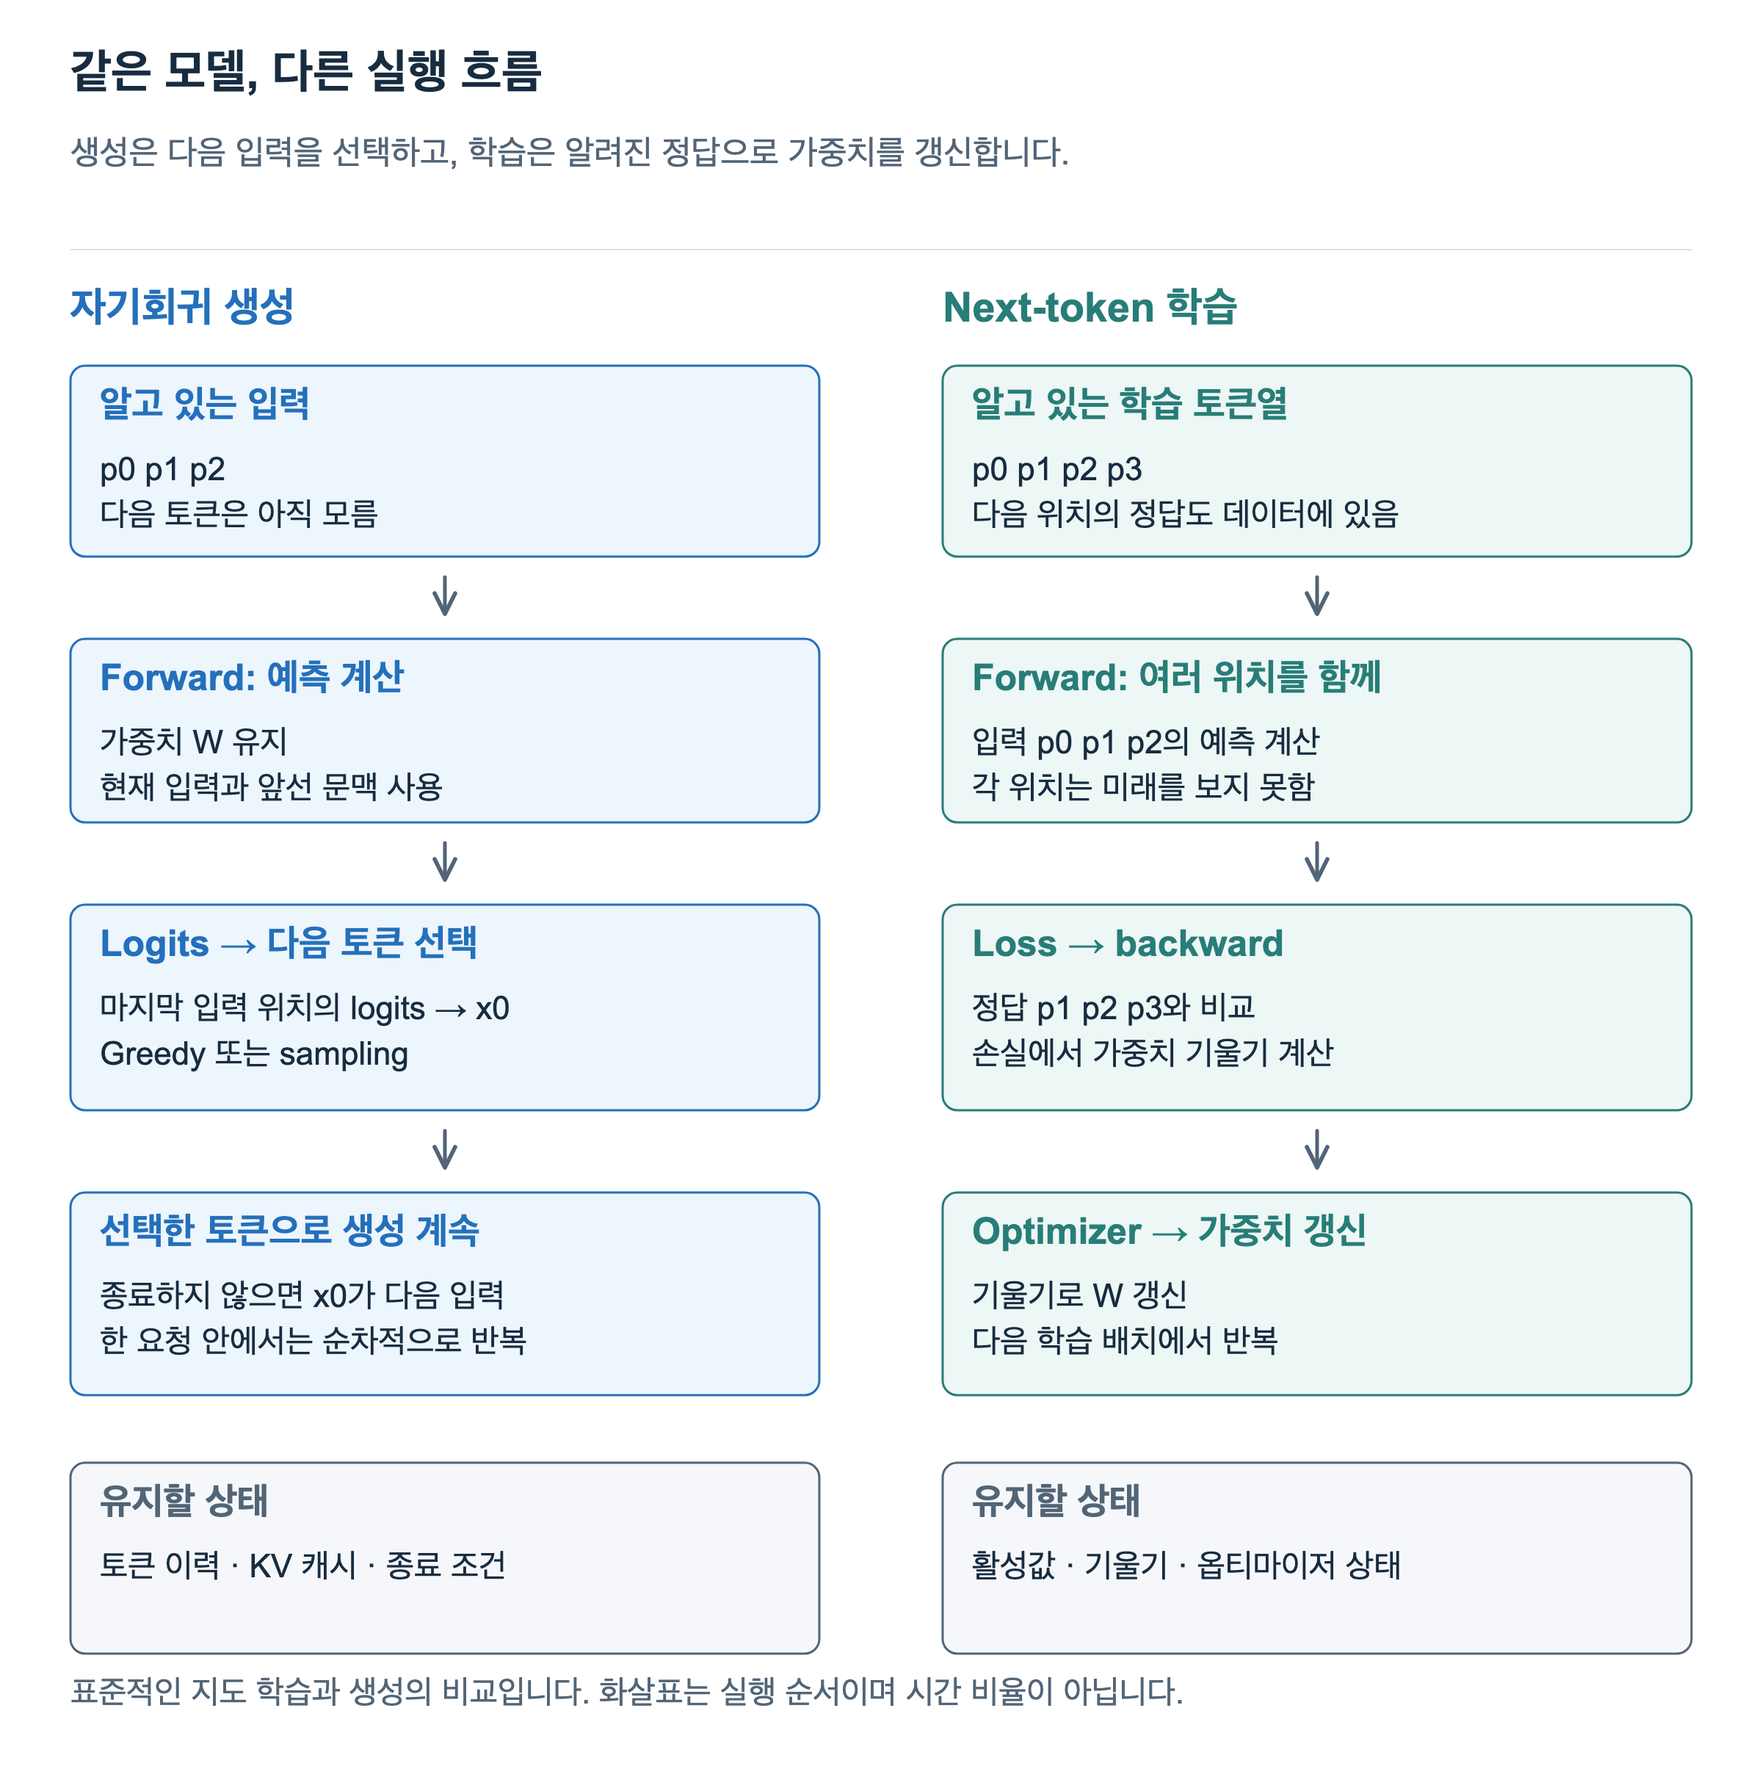
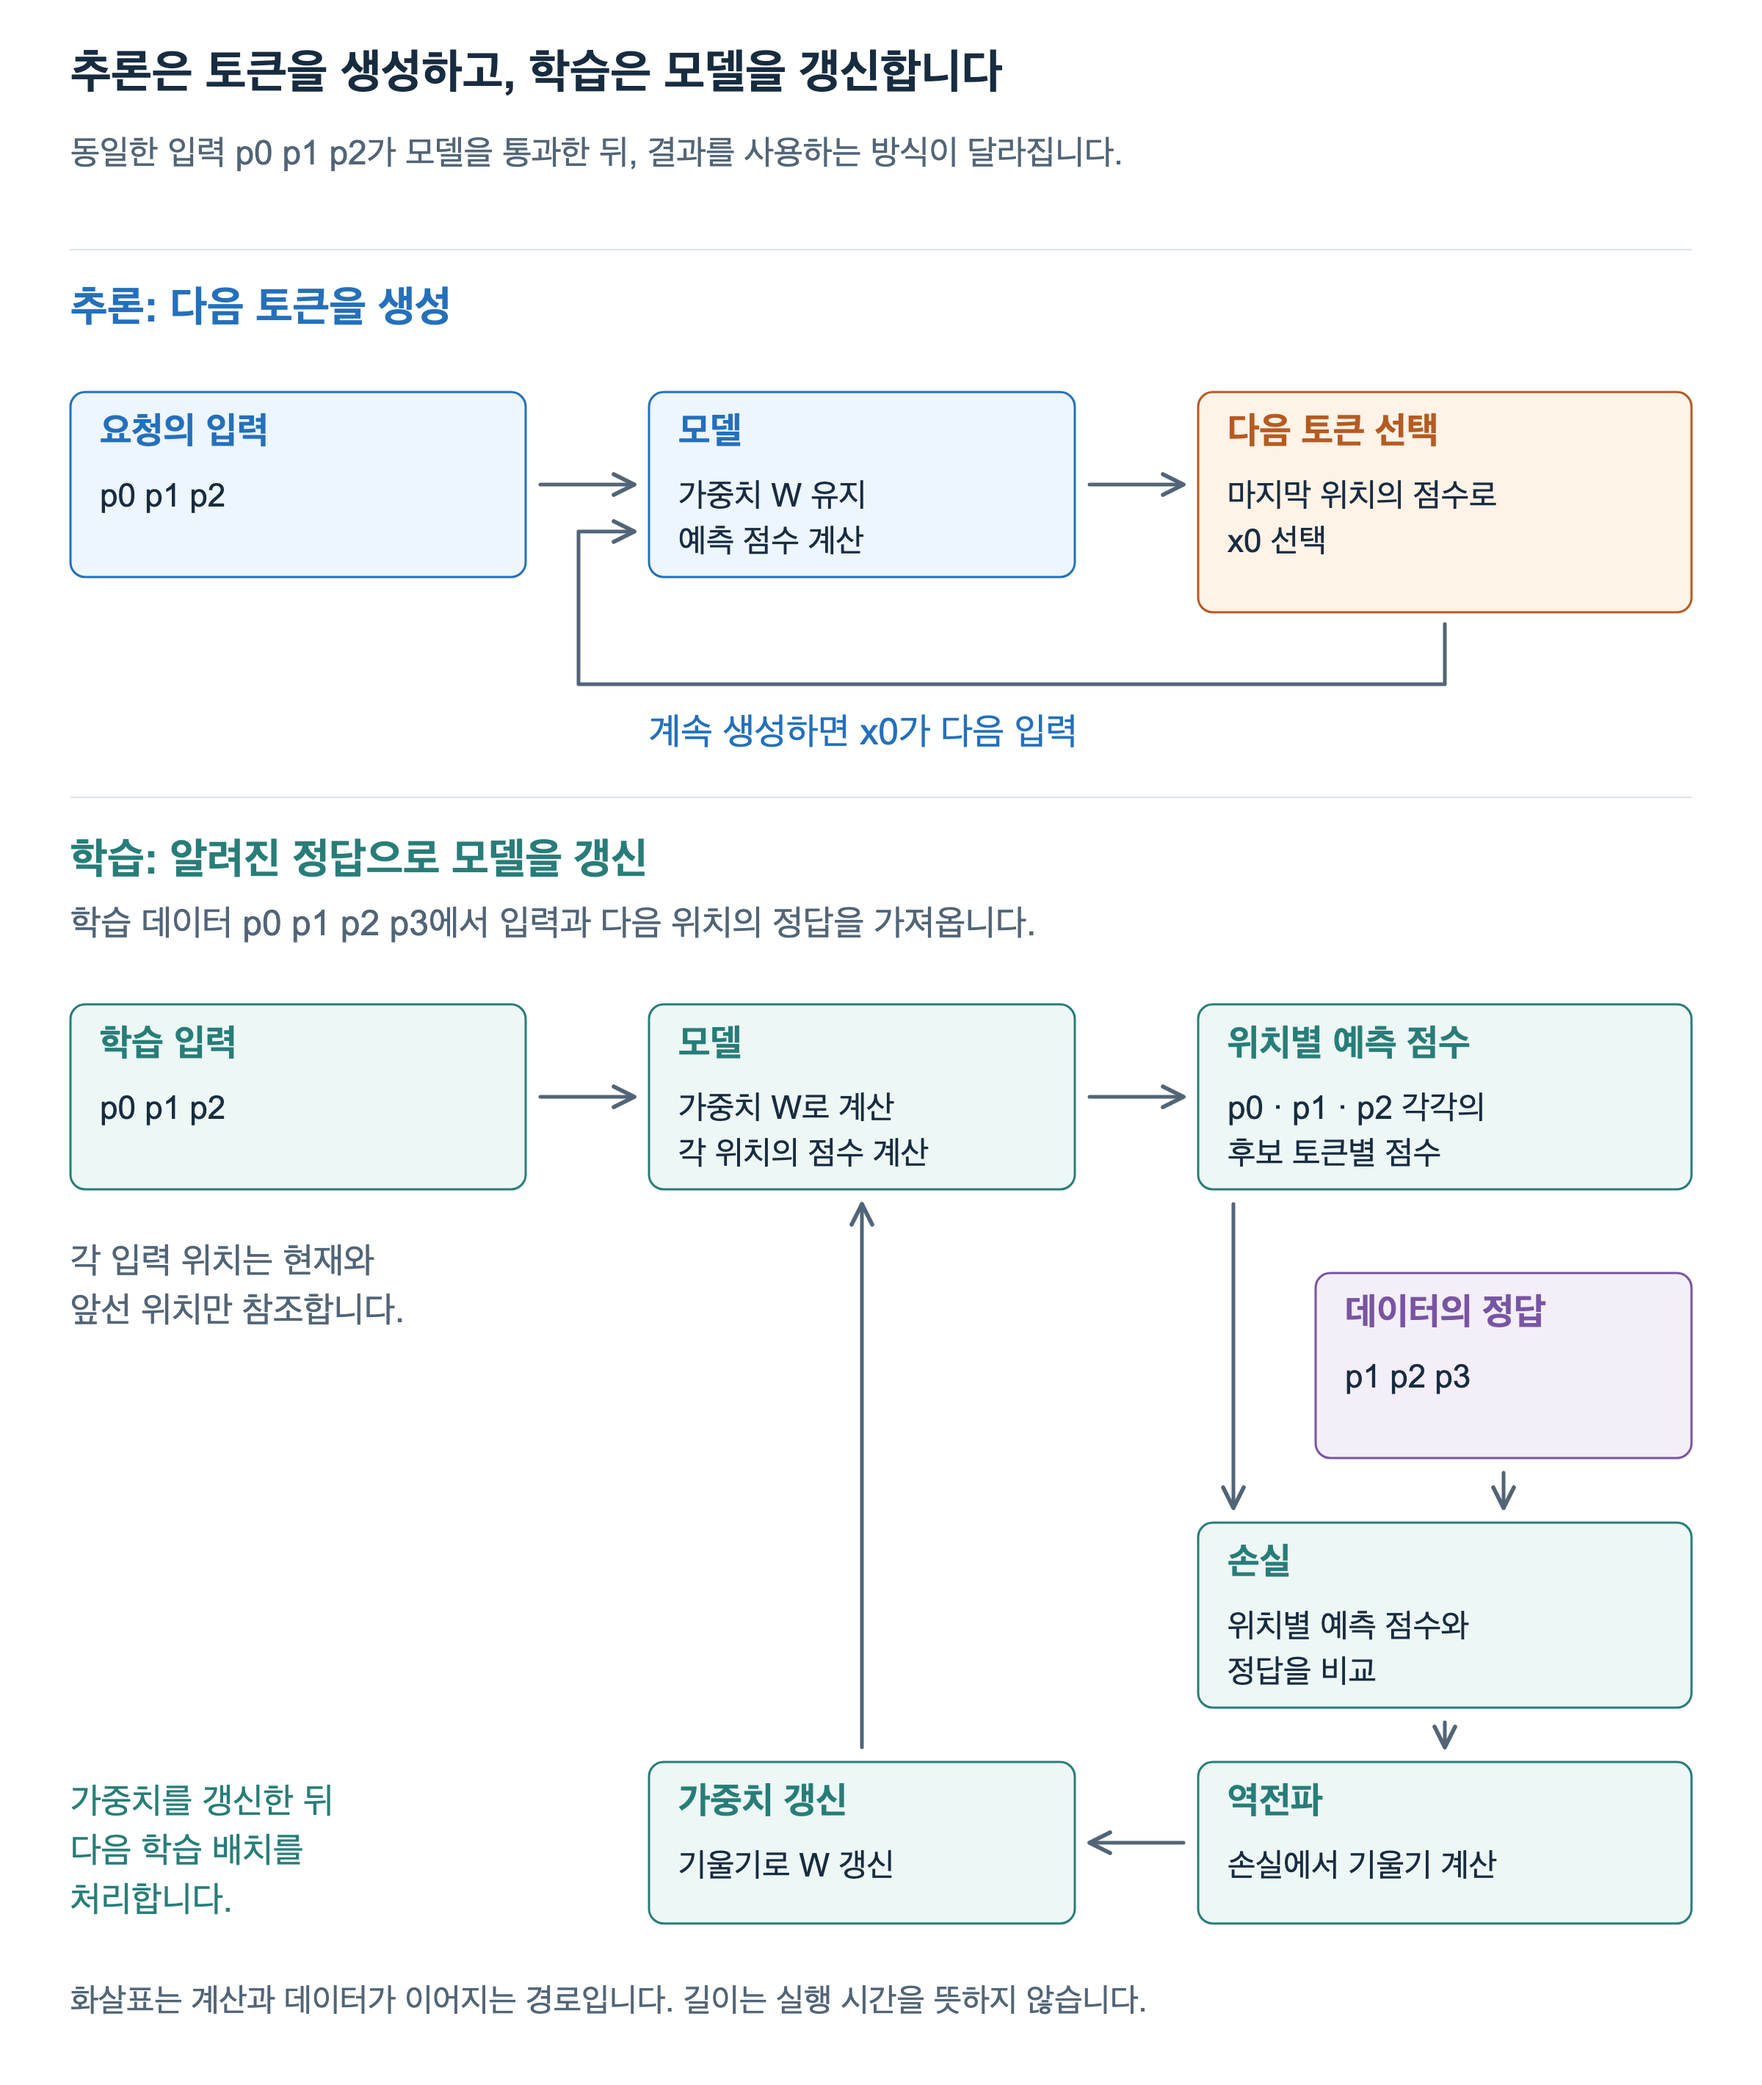
Clarify inference and training workload comparison

diff --git a/scripts/generate-inference-core-figures.py b/scripts/generate-inference-core-figures.py
@@ -69,22 +69,33 @@ def save(article,slug,title,subtitle,body,height,alt,caption):
 
 for LANG in ['ko','en']:
     a='inference-and-training'
-    b=text(48,219,('자기회귀 생성','Autoregressive generation'),28,BLUE,True)+text(642,219,('Next-token 학습','Next-token training'),28,TEAL,True)
-    b+=box(48,249,510,130,('알고 있는 입력','Known input'),'p0  p1  p2\n'+tr(('다음 토큰은 아직 모름','The next token is not yet known')))
-    b+=box(642,249,510,130,('알고 있는 학습 토큰열','Known training sequence'),'p0  p1  p2  p3\n'+tr(('다음 위치의 정답도 데이터에 있음','Next-position targets are in the data')),TEALF,TEAL)
-    for x in [303,897]:b+=arrow(x,393,x,418)
-    b+=box(48,435,510,125,('Forward: 예측 계산','Forward: compute predictions'),('가중치 W 유지\n현재 입력과 앞선 문맥 사용','Keep weights W fixed\nCurrent input with prior context'))
-    b+=box(642,435,510,125,('Forward: 여러 위치를 함께','Forward: known positions'),('입력 p0 p1 p2의 예측 계산\n각 위치는 미래를 보지 못함','Predict from input positions p0 p1 p2\nEach position cannot see the future'),TEALF,TEAL)
-    for x in [303,897]:b+=arrow(x,574,x,599)
-    b+=box(48,616,510,140,('Logits → 다음 토큰 선택','Logits → select the next token'),('마지막 입력 위치의 logits → x0\nGreedy 또는 sampling','Last-position logits → x0\nGreedy selection or sampling'))
-    b+=box(642,616,510,140,('Loss → backward','Loss → backward'),('정답 p1 p2 p3와 비교\n손실에서 가중치 기울기 계산','Compare with targets p1 p2 p3\nWeight gradients from the loss'),TEALF,TEAL)
-    for x in [303,897]:b+=arrow(x,770,x,795)
-    b+=box(48,812,510,138,('선택한 토큰으로 생성 계속','Continue with the selected token'),('종료하지 않으면 x0가 다음 입력\n한 요청 안에서는 순차적으로 반복','If continuing, use x0 as next input\nRepeat in order within a request'))
-    b+=box(642,812,510,138,('Optimizer → 가중치 갱신','Optimizer → update weights'),('기울기로 W 갱신\n다음 학습 배치에서 반복','Update W using the gradients\nRepeat on the next training batch'),TEALF,TEAL)
-    b+=box(48,996,510,130,('유지할 상태','State to retain'),('토큰 이력 · KV 캐시 · 종료 조건','Token history · KV cache · stop conditions'),'#F5F7FA',MUTED)
-    b+=box(642,996,510,130,('유지할 상태','State to retain'),('활성값 · 기울기 · 옵티마이저 상태','Activations · gradients\nOptimizer state'),'#F5F7FA',MUTED)
-    b+=text(48,1160,('표준적인 지도 학습과 생성의 비교입니다. 화살표는 실행 순서이며 시간 비율이 아닙니다.','Standard supervised training and generation; arrows show order, not elapsed time.'),22,MUTED,width=1104)
-    save(a,'01-execution',('같은 모델, 다른 실행 흐름','Same model, different execution flows'),('생성은 다음 입력을 선택하고, 학습은 알려진 정답으로 가중치를 갱신합니다.','Generation selects its next input; training updates weights against known targets.'),b,1210,('생성은 고정된 가중치로 forward와 토큰 선택을 반복하고, 학습은 알려진 여러 위치의 예측과 손실, 역전파, 가중치 갱신을 수행합니다.','Generation repeats forward passes and token selection with fixed weights. Training predicts known positions, computes loss and gradients, and updates weights.'),('같은 Transformer도 입력이 주어지는 방식, 반복할 계산, 유지할 상태가 다르면 다른 워크로드가 됩니다.','The same Transformer forms different workloads when its inputs, repeated computation, and retained state differ.'))
+    b=text(48,219,('추론: 다음 토큰을 생성','Inference: generate the next token'),29,BLUE,True)
+    b+=box(48,267,310,126,('요청의 입력','Request input'),'p0  p1  p2')
+    b+=box(442,267,290,126,('모델','Model'),('가중치 W 유지\n예측 점수 계산','Fixed weights W\nCompute scores'))
+    b+=box(816,267,336,150,('다음 토큰 선택','Next token'),('마지막 위치의 점수로\nx0 선택','Final-position scores\nselect x0'),ORANGEF,ORANGE)
+    b+=arrow(368,330,432,330)+arrow(742,330,806,330)
+    b+=patharrow('M984,425 V466 H394 V362 H432')
+    b+=text(442,507,('계속 생성하면 x0가 다음 입력','If continuing, x0 is the next input'),25,BLUE,width=710)
+    b+=f'<path d="M48,543 H1152" stroke="{LINE}"/>'
+
+    b+=text(48,595,('학습: 알려진 정답으로 모델을 갱신','Training: update the model using known targets'),29,TEAL,True)
+    b+=text(48,637,('학습 데이터 p0 p1 p2 p3에서 입력과 다음 위치의 정답을 가져옵니다.','Training data p0 p1 p2 p3 supplies both inputs and next-position targets.'),24,MUTED,width=1104)
+    b+=box(48,684,310,126,('학습 입력','Training input'),'p0  p1  p2',TEALF,TEAL)
+    b+=box(442,684,290,126,('모델','Model'),('가중치 W로 계산\n각 위치의 점수 계산','Use weights W\nCompute predictions'),TEALF,TEAL)
+    b+=box(816,684,336,126,('위치별 예측 점수','Predictions'),('p0 · p1 · p2 각각의\n후보 토큰별 점수','Vocabulary scores\nat p0, p1, and p2'),TEALF,TEAL)
+    b+=arrow(368,747,432,747)+arrow(742,747,806,747)
+    b+=text(48,867,('각 입력 위치는 현재와\n앞선 위치만 참조합니다.','No input position sees\nfuture positions.'),24,MUTED,width=310)
+    b+=box(896,867,256,126,('데이터의 정답','Known targets'),'p1  p2  p3',PURPLEF,PURPLE)
+    b+=arrow(840,820,840,1027)+arrow(1024,1003,1024,1027)
+    b+=box(816,1037,336,126,('손실','Loss'),('위치별 예측 점수와\n정답을 비교','Compare position scores\nwith their targets'),TEALF,TEAL)
+    b+=arrow(984,1173,984,1190)
+    b+=box(816,1200,336,110,('역전파','Backward pass'),('손실에서 기울기 계산','Compute gradients'),TEALF,TEAL)
+    b+=arrow(806,1255,742,1255)
+    b+=box(442,1200,290,110,('가중치 갱신','Update weights'),('기울기로 W 갱신','Use the gradients'),TEALF,TEAL)
+    b+=arrow(587,1190,587,820)
+    b+=text(48,1235,('가중치를 갱신한 뒤\n다음 학습 배치를 처리합니다.','Update W, then process\nthe next batch.'),24,TEAL,width=310)
+    b+=text(48,1370,('화살표는 계산과 데이터가 이어지는 경로입니다. 길이는 실행 시간을 뜻하지 않습니다.','Arrows connect computations and data; their lengths do not represent execution time.'),22,MUTED,width=1104)
+    save(a,'01-execution',('추론은 토큰을 생성하고, 학습은 모델을 갱신합니다','Inference generates tokens; training updates the model'),('동일한 입력 p0 p1 p2가 모델을 통과한 뒤, 결과를 사용하는 방식이 달라집니다.','After the same input p0 p1 p2 passes through the model, its outputs serve different purposes.'),b,1420,('추론에서는 입력 p0 p1 p2가 고정된 가중치의 모델을 통과하고 마지막 위치의 점수로 x0를 선택합니다. 계속 생성하면 x0가 다음 입력입니다. 학습에서는 입력 p0 p1 p2의 위치별 예측 점수와 데이터의 정답 p1 p2 p3를 손실에서 비교합니다. 손실로부터 역전파해 기울기를 구하고 모델 가중치를 갱신합니다.','In inference, input p0 p1 p2 passes through the fixed-weight model and final-position scores select x0, which becomes the next input if generation continues. In training, loss compares predictions at p0 p1 p2 with targets p1 p2 p3 from the data. Backpropagation computes gradients used to update model weights.'),('추론은 예측 점수에서 다음 토큰을 선택합니다. 학습은 각 위치의 예측 점수와 알려진 정답으로 손실을 구하고, 역전파와 가중치 갱신으로 이어집니다.','Inference selects the next token from prediction scores. Training uses each position’s scores and known target to compute loss, followed by backpropagation and a weight update.'))
 
     stages=[(('요청 도착 · 입력 준비','Request arrives · prepare input'),('텍스트를 토큰으로 바꾸고 요청 상태 생성','Tokenize text and create request state')),(('대기 큐','Waiting queue'),('도착한 요청이 실행 기회를 기다림','Arriving requests wait for an execution opportunity')),(('실행 대상 선택 · 자원 확인','Select work · check resources'),('이번 단계의 토큰 예산과 KV 공간을 함께 고려','Consider both the step token budget and KV capacity')),(('선택한 토큰을 배치로 실행','Execute selected tokens as a batch'),('요청별 문맥을 유지하며 모델 계산','Compute while preserving each request’s context')),(('다음 토큰 선택 · 상태 갱신','Select next tokens · update state'),('계산된 KV, 토큰 이력, 종료 조건을 갱신','Update KV, token history, and stop conditions')),(('출력 전달 · 완료/취소 정리','Deliver output · clean up ended requests'),('완료·취소 시 더 이상 필요 없는 자원 회수','Free unused resources after finish or cancellation'))]
     b=''

diff --git a/README.md b/README.md
@@ -63,7 +63,7 @@ Available in English and Korean. Browse the articles and diagrams below.
 
 #### Workloads
 
-- [Same Model, Different Execution: Inference and Training](https://llm-systems-engineering.pages.dev/en/posts/inference-and-training/)
+- [Same Model, Different Workloads: Inference and Training](https://llm-systems-engineering.pages.dev/en/posts/inference-and-training/)
 
 ### Inference
 

diff --git a/README.ko.md b/README.ko.md
@@ -63,7 +63,7 @@
 
 #### 워크로드
 
-- [같은 모델, 다른 실행: 추론과 학습](https://llm-systems-engineering.pages.dev/posts/inference-and-training/)
+- [같은 모델, 다른 워크로드: 추론과 학습](https://llm-systems-engineering.pages.dev/posts/inference-and-training/)
 
 ### 추론
 
